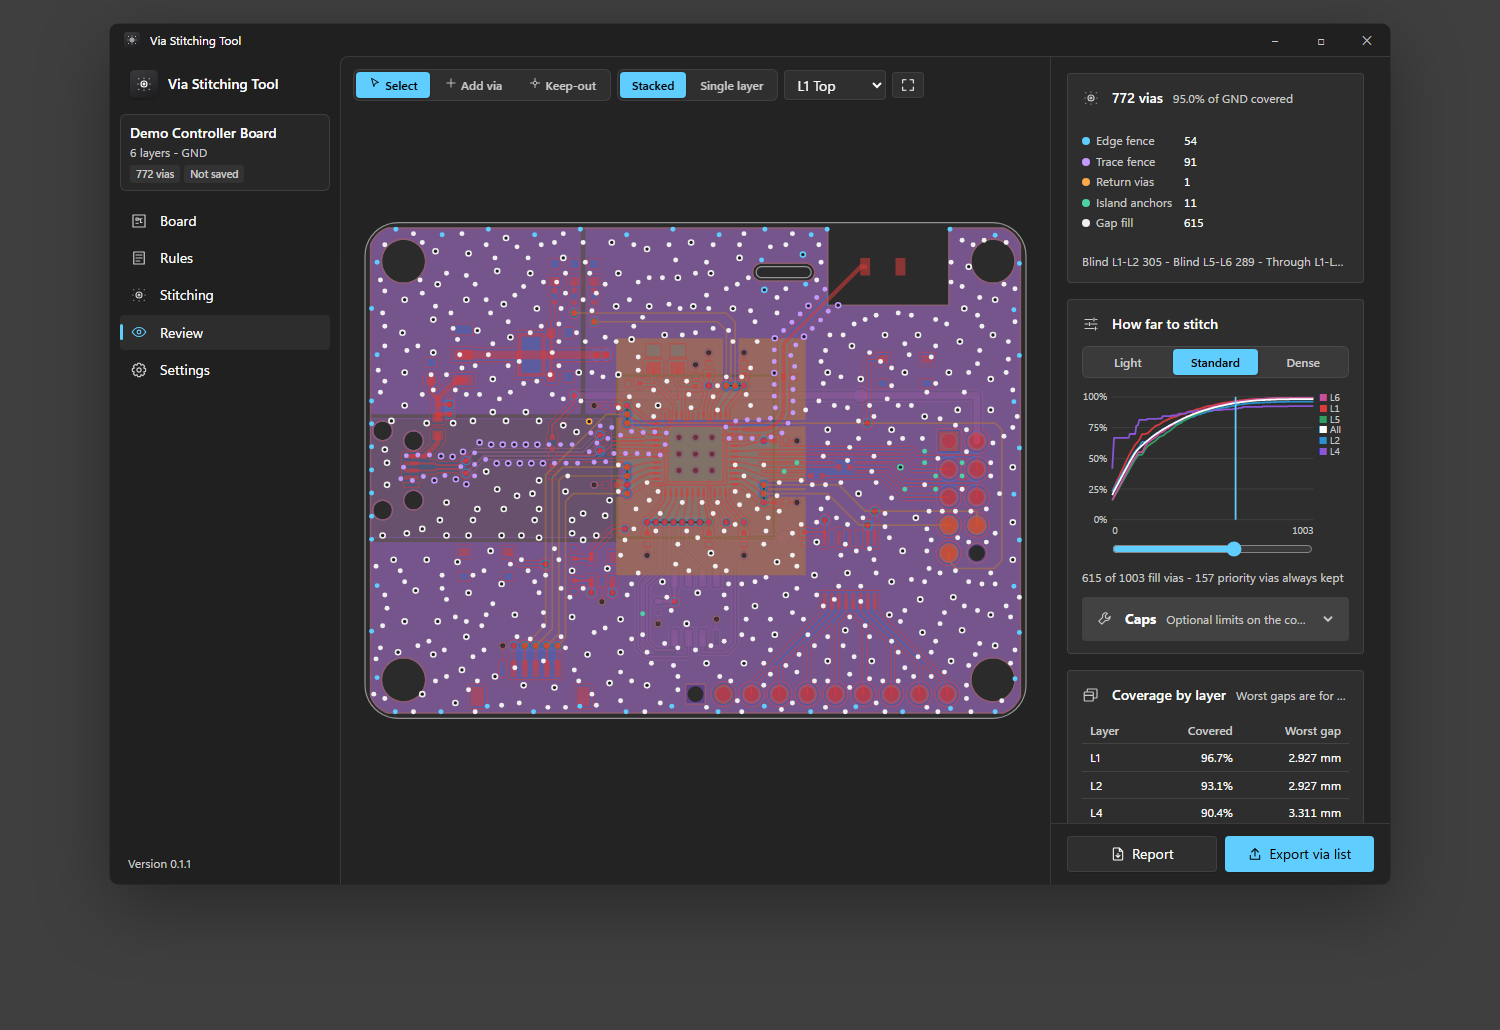
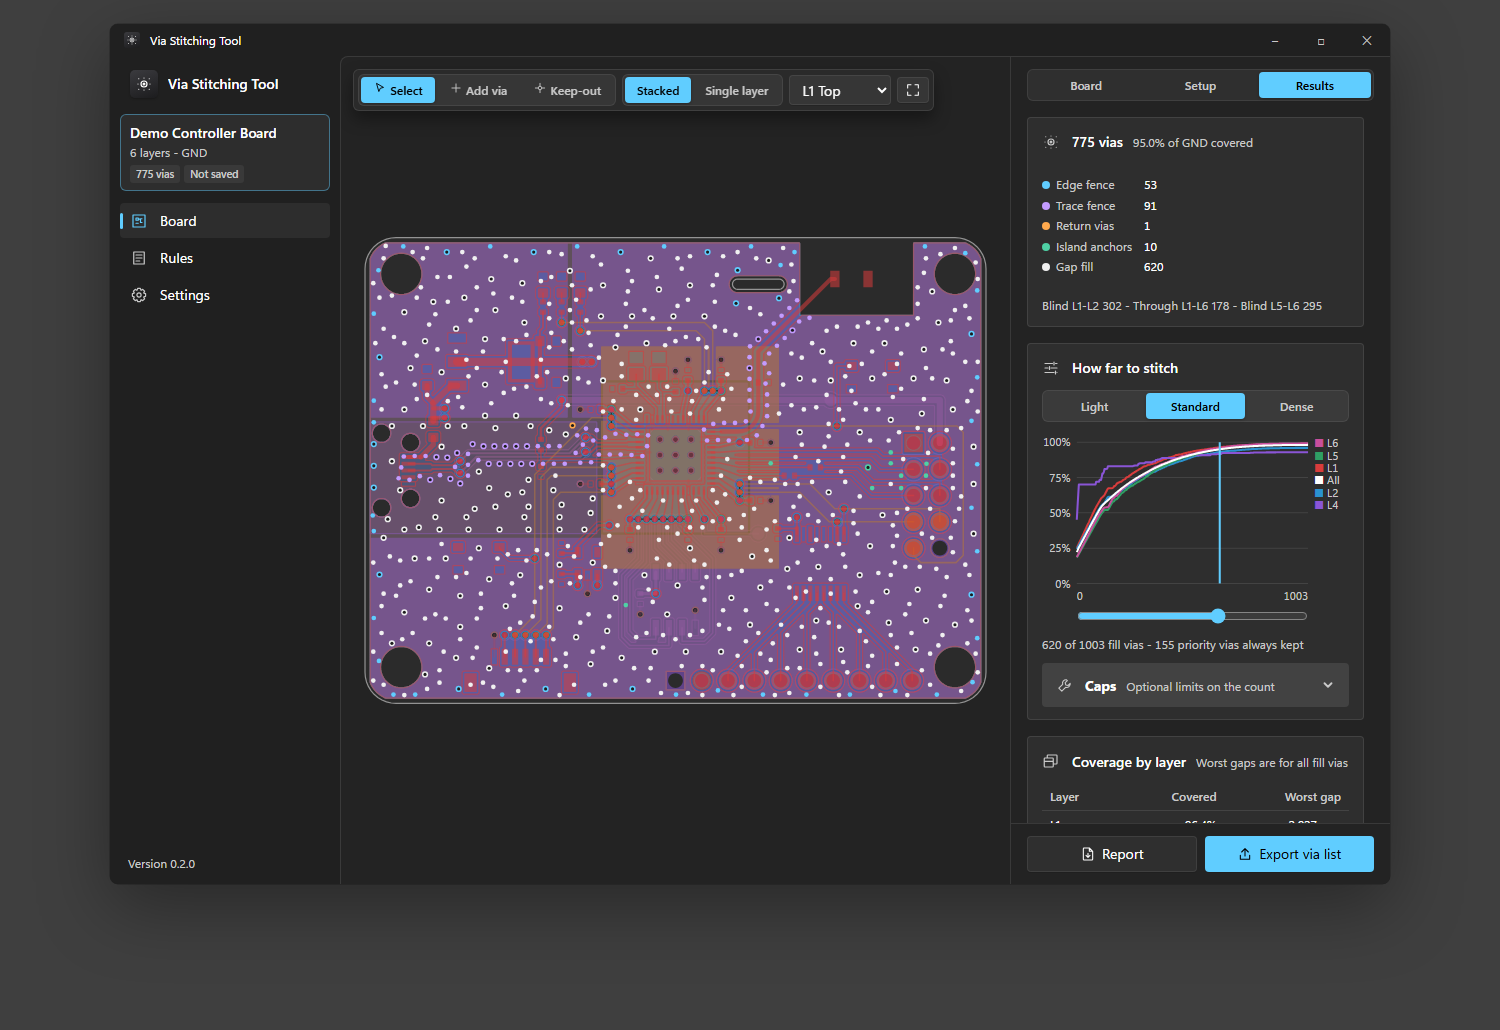
README for 0.2.0

diff --git a/README.md b/README.md
@@ -16,7 +16,7 @@ Windows 10 and 11 - 64-bit
   </picture>
 </a>
 
-<sub>Version 0.1.1 (preview) - <a href="https://github.com/branggs/Via-Stitching-Tool-Release/releases">All versions</a></sub>
+<sub>Version 0.2.0 (preview) - <a href="https://github.com/branggs/Via-Stitching-Tool-Release/releases">All versions</a></sub>
 
 <br><br>
 
@@ -31,14 +31,19 @@ Windows 10 and 11 - 64-bit
 
 - Try it straight away on the built-in demo: a 6-layer controller board with power pours, USB and RF traces and blind vias
 - Export the open PCB from Altium with the Export for Stitching script, then open the board file here
-- Place vias off-grid wherever they fit: edge fences, fences along picked nets, return vias, island anchors and gap fill, with through and blind vias
+- Place vias off-grid wherever they fit: edge fences, fences along picked nets, return vias, island anchors and gap fill, with through and optional blind vias - and watch them appear on the board as the stitcher runs
 - Pick how far to stitch on a coverage curve: Light, Standard or Dense, or drag the cut-off
 - See coverage per layer as a heat map, where vias may go, and areas no via can reach
-- Add, delete and lock vias by hand; each via is checked again before export
+- Add, delete and lock vias by hand with Altium-style mouse and keys; each via is checked again before export, and a click on a problem jumps to it
 - Use the board's own rules or an imported Altium .RUL file, and compare the two
 - Export the via list for the Import Stitching Vias script, and an HTML review report
 
 Altium DRC stays the final check: run it after importing the vias.
+
+<picture>
+  <source media="(prefers-color-scheme: dark)" srcset=".github/assets/setup-dark.png">
+  <img alt="Setup panel with via sizes next to the board" src=".github/assets/setup-light.png">
+</picture>
 
 <picture>
   <source media="(prefers-color-scheme: dark)" srcset=".github/assets/review-heat-dark.png">
@@ -53,13 +58,20 @@ Altium DRC stays the final check: run it after importing the vias.
 
 This preview does not update itself yet: install a newer version over it to update.
 
-## What's new in 0.1.1
+## What's new in 0.2.0
 
 NEW
-- A built-in demo board: choose **Try the demo board** on the start screen, then **Run** on the Stitching page
+- One workspace: the board stays in view while you set up, run and review
+- Watch the vias appear on the board while the stitcher runs
+- Click a check failure, an unreachable area or a skipped via to jump to it
+- Altium-style controls: scroll and Shift+scroll pan, Ctrl+scroll zooms, right-drag pans, Shift+S shows one layer, numpad + and - step layers
+- Box select: drag right for everything the box touches, drag left for vias fully inside
 
 IMPROVED
-- Light and Standard density now reach their coverage targets on larger boards
-- The coverage heat map counts the board's existing GND vias
+- Via sizes are set at the top of Setup; blind vias start off and have their own size
+- Vias stay fully inside the GND plane - no pads poking into the pullback at the board edge or around holes
+
+FIXED
+- Esc or a right-click leaves the Add via and Keep-out tools
 
 [All releases and notes](https://github.com/branggs/Via-Stitching-Tool-Release/releases)
